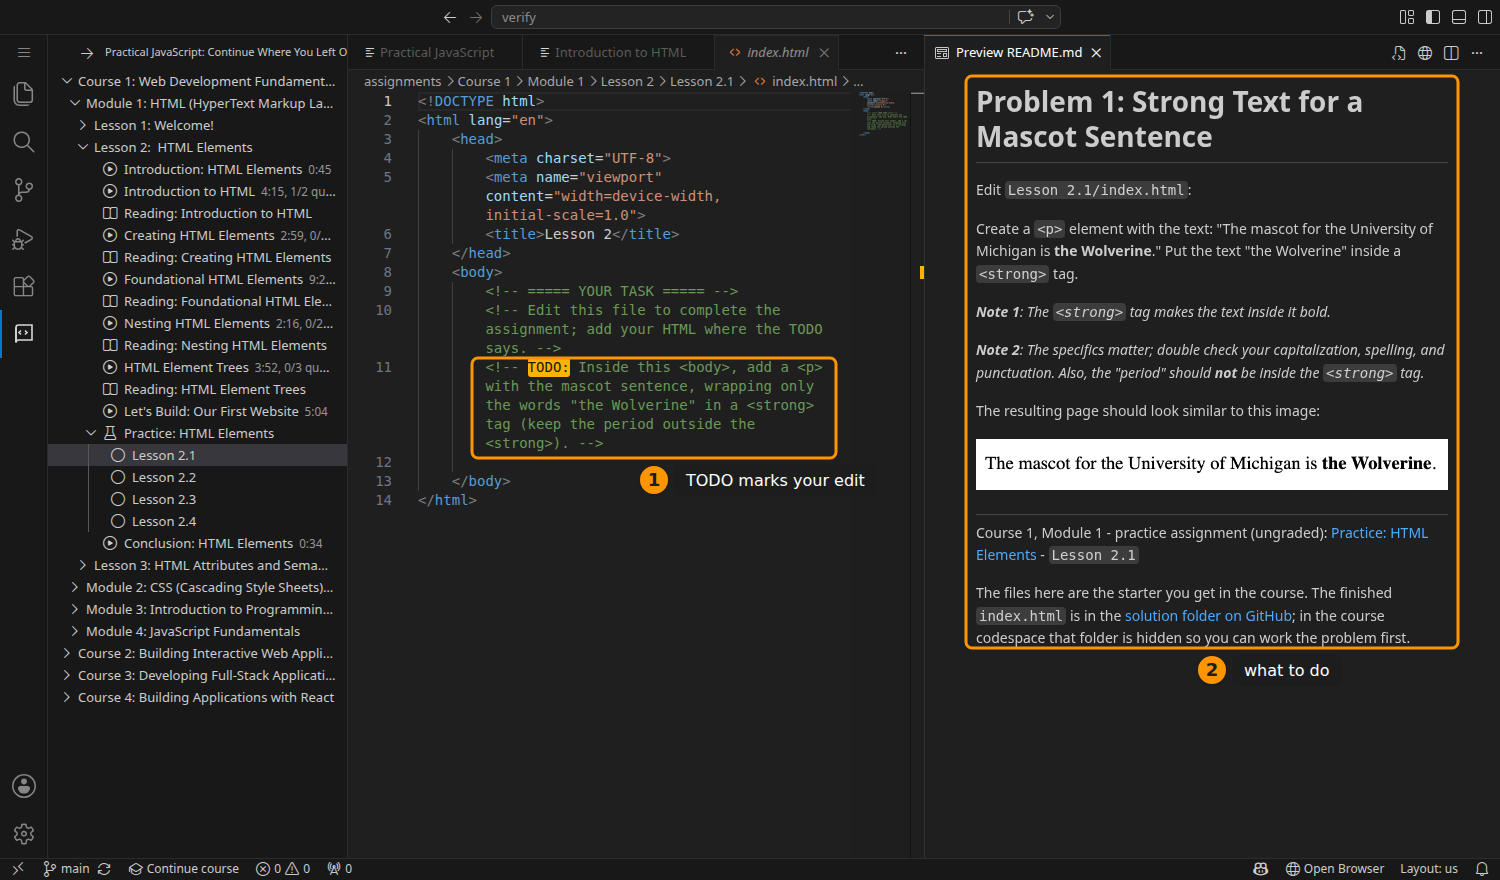
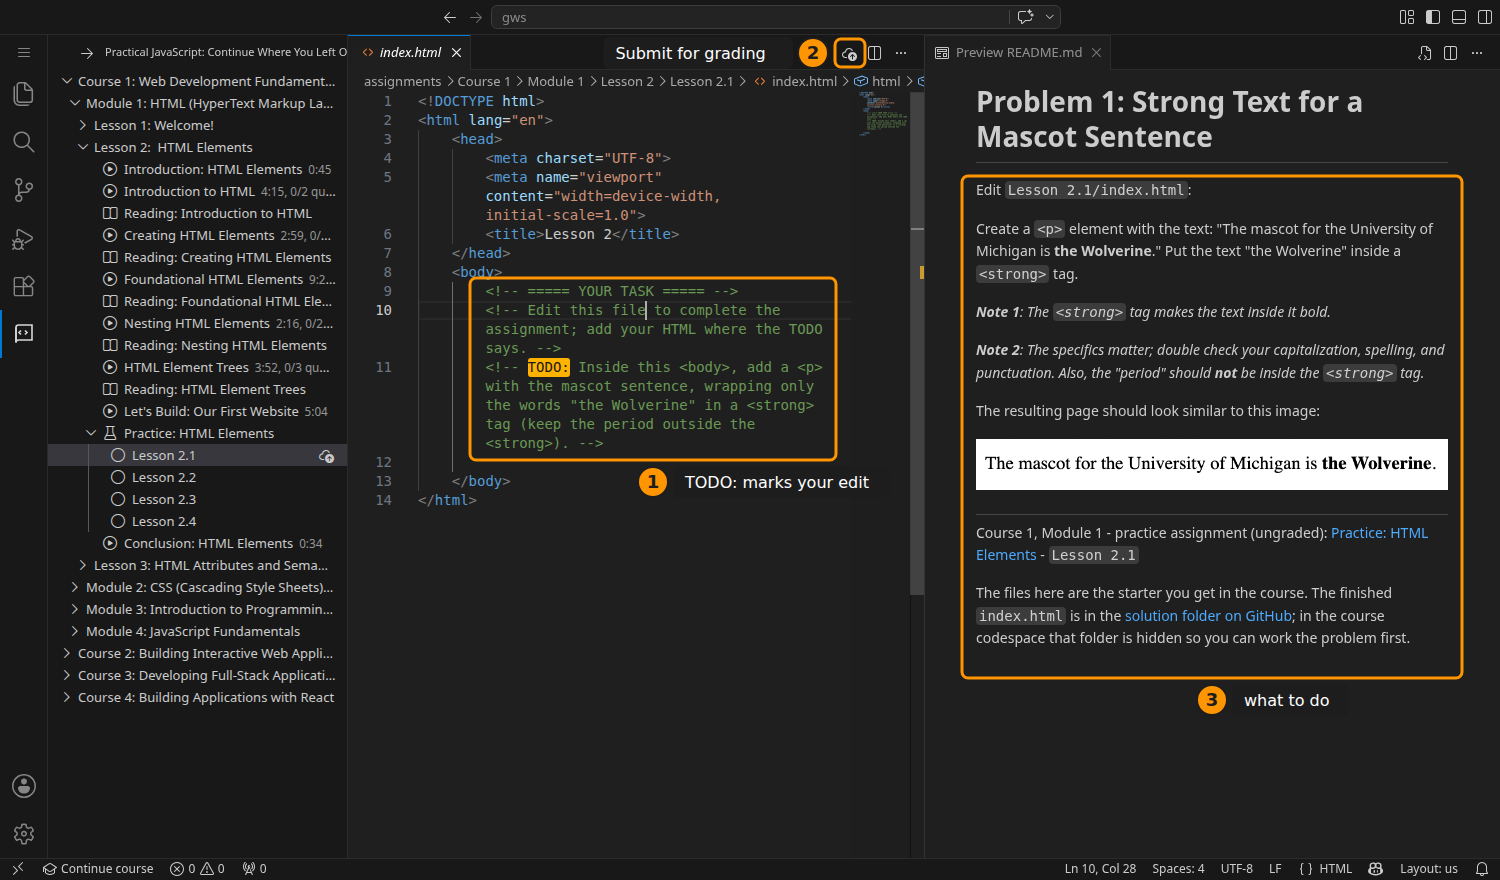
Sync from the course authoring repo

diff --git a/docs/working-in-the-codespace.md b/docs/working-in-the-codespace.md
@@ -111,12 +111,14 @@ to rewatch, and it is searchable with `Ctrl+F` (`Cmd+F` on a Mac).
 
 Clicking an assignment problem sets up both halves of the job at once.
 
-![An assignment open: the starter file on the left with its TODO comment marked, the problem description rendered on the right](images/cs-06-assignment.png)
+![An assignment open: the starter file on the left with its TODO comment marked, the Submit button in the title bar, the problem description rendered on the right](images/cs-06-assignment.png)
 
 1. **The starter file**, with a `TODO:` comment highlighted in yellow marking
    the exact spot you are meant to change. Where a problem has several steps,
    they are numbered `TODO: (1)`, `TODO: (2)`, and so on.
-2. **The problem description**, rendered beside your code so you can read the
+2. **The Submit button**, the small cloud icon in the title bar above your
+   code. That is what sends your work to the grader; Step 5 below covers it.
+3. **The problem description**, rendered beside your code so you can read the
    requirements without switching tabs.
 
 Two rules that will save you trouble:
@@ -171,17 +173,20 @@ A few things worth knowing:
 
 ## Step 5: Submit for grading
 
-When you are ready, submit from the button in the editor's title bar, or from
-the command palette (`F1`, then "Submit Assignment for Grading"). You can also
-right-click the problem's folder and submit from there.
+When you are ready, click the **cloud icon** in the title bar above your code.
+The same command sits on every problem in the outline (hover the row and click
+its cloud icon) and in the command palette (`F1`, then "Submit Assignment for
+Grading"), and you can right-click the problem's folder and submit from there.
 
-![The graded result: the score panel beside the code, and the problem checked off in the outline](images/cs-08-feedback.png)
+![The graded result: the feedback panel beside the code listing every check, and the problem checked off in the outline](images/cs-08-feedback.png)
 
-1. **Your score.** This is the course's real grader, the same checks the
+1. **Your result.** This is the course's real grader, the same checks the
    Coursera course runs, so a pass here is a genuine pass.
 2. **The outline checks the problem off** as soon as it passes.
-3. **The feedback panel** opens beside your code. When something fails it names
-   the element, the text, or the behavior it expected, and you fix and resubmit.
+3. **Every check the grader ran**, in the same report Coursera shows. On a pass
+   you can read exactly what was verified; when something fails it names the
+   element, the text, or the behavior it expected, suggests what to try, and
+   keeps the raw error under "Technical details" if you want it.
 
 Grading takes a few seconds, because a real browser opens your page and works
 through a list of checks. You can submit as many times as you like, so
